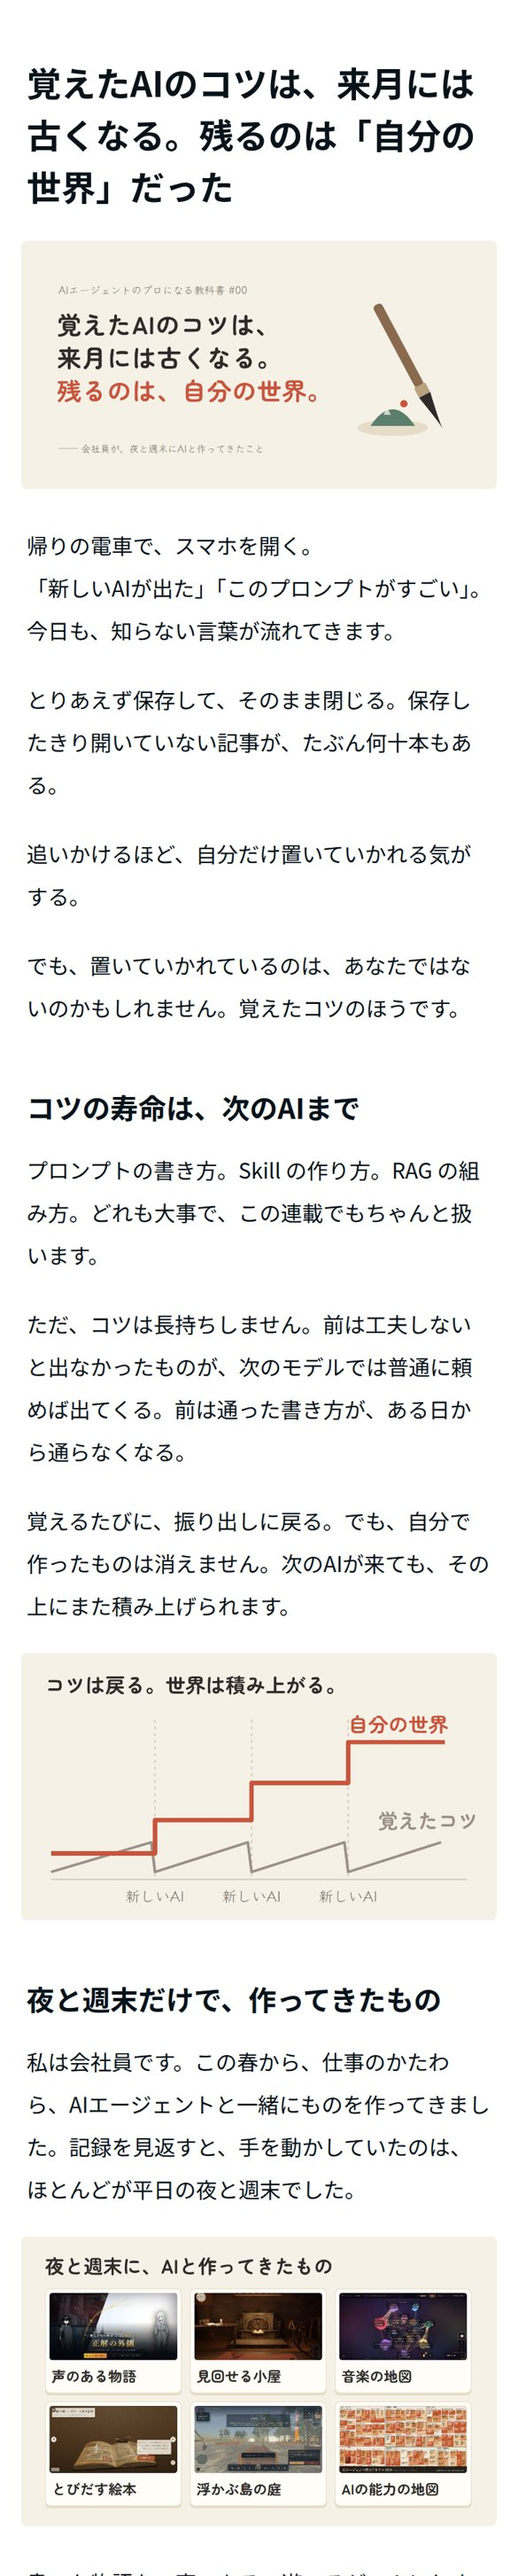
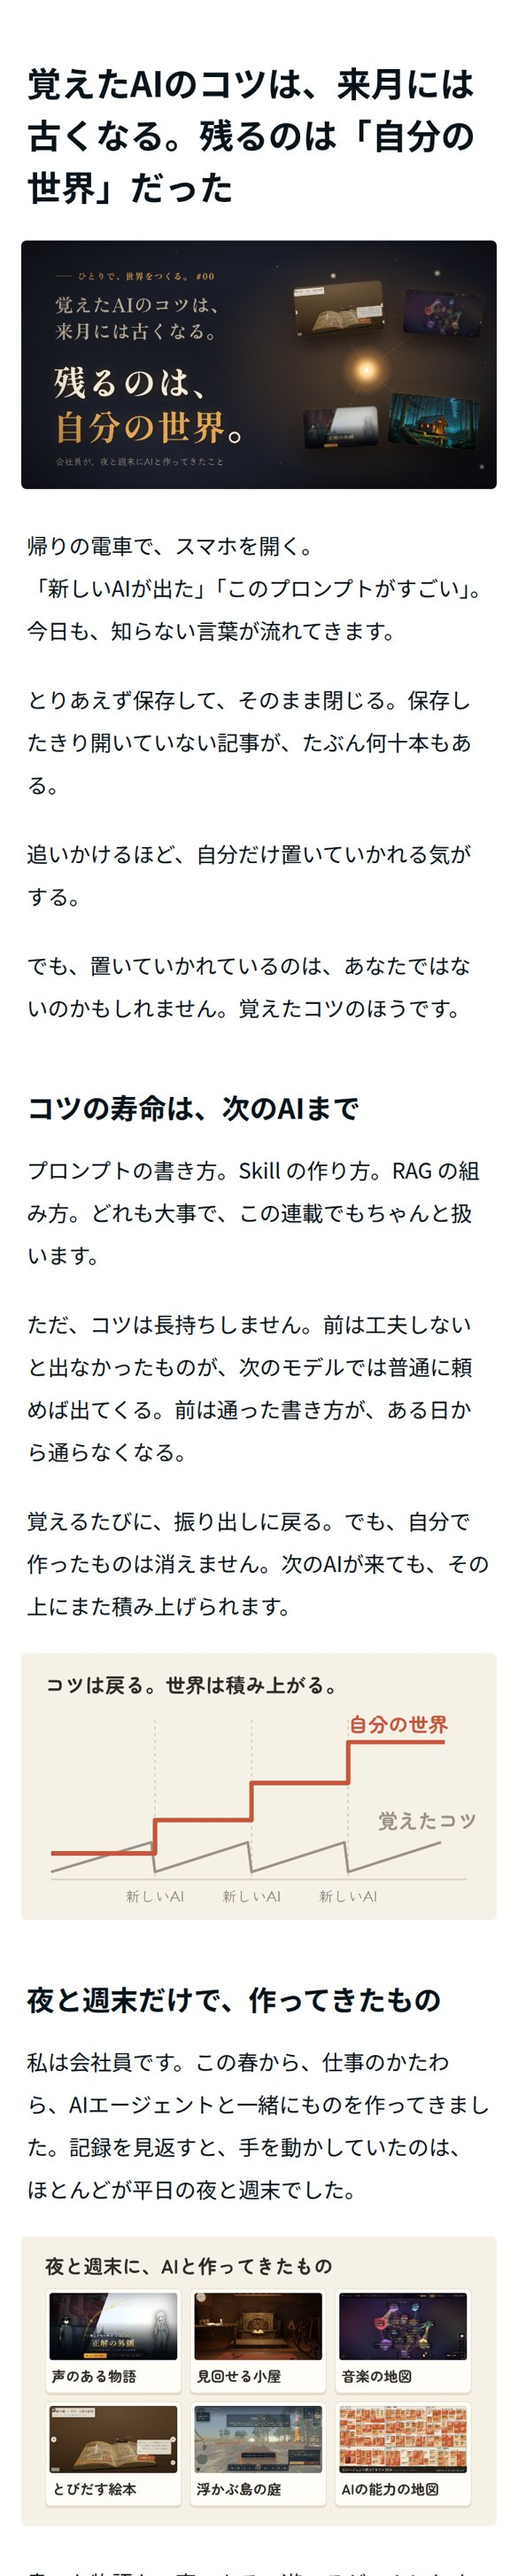
note連載：見出し画像を夜の灯りと作品の星座で作り直し、連載の表紙を追加
- #00 の見出し画像と連載の表紙を、暗い夜の色・明朝・作品の実画像で作り直した
- 大タイトルを決定とし、#00 タイトルとの関係（問いと答え）を 07 に記録
- 小さく表示したときの比較と、スマホでの見え方を更新

Claude-Session: https://claude.ai/code/session_01WdYy9Xjjirin4eQUmpa4hd

Changed region(s): [[0.0308, 0.0929, 0.9846, 0.2167]]

diff --git a/docs/note_ai_series/figures/src/cover_series.html b/docs/note_ai_series/figures/src/cover_series.html
@@ -1,10 +1,10 @@
 <html><head><meta charset="utf-8"><link rel="stylesheet" href="_night.css"><style>
-.label{left:92px;top:78px;font-size:23px;letter-spacing:.12em}
-.q{position:absolute;left:90px;top:136px;font-size:50px;line-height:1.42;color:var(--dim);letter-spacing:.02em;white-space:nowrap}
-.a{position:absolute;left:84px;top:318px;font-family:'Shippori B1';font-weight:800;font-size:92px;line-height:1.3;letter-spacing:.02em;
-   text-shadow:0 0 30px rgba(227,168,87,.28),0 4px 18px rgba(0,0,0,.6);white-space:nowrap}
-.a b{color:var(--amber);font-weight:800}
-.foot{position:absolute;left:92px;bottom:58px;font-family:'Klee One';font-weight:600;font-size:24px;color:var(--dim);opacity:.9;white-space:nowrap}
+.label{left:92px;top:120px}
+.t{position:absolute;left:84px;top:170px;font-family:'Shippori B1';font-weight:800;font-size:100px;line-height:1.28;letter-spacing:.02em;
+   text-shadow:0 0 30px rgba(227,168,87,.25),0 4px 18px rgba(0,0,0,.6);white-space:nowrap}
+.t b{color:var(--amber);font-weight:800}
+.bar{position:absolute;left:92px;top:452px;width:72px;height:3px;background:var(--amber)}
+.sub{position:absolute;left:90px;top:482px;font-size:34px;line-height:1.55;color:var(--dim);letter-spacing:.04em;white-space:nowrap}
 </style></head><body><div class="fig">
 <svg class="sky" width="1280" height="670" viewBox="0 0 1280 670">
  <defs>
@@ -40,8 +40,8 @@
 <div class="card" style="left:990px;top:420px;width:240px;height:135px;transform:rotate(5deg)"><img src="../../../../assets/cabin-hero.png"></div>
 <div class="card far" style="left:760px;top:452px;width:200px;height:106px;transform:rotate(-3deg)"><img src="../../../../assets/seikai/og-share.jpg"></div>
 
-<div class="label"><i></i>ひとりで、世界をつくる。 #00</div>
-<div class="q">覚えたAIのコツは、<br>来月には古くなる。</div>
-<div class="a">残るのは、<br><b>自分の世界</b>。</div>
-<div class="foot">会社員が、夜と週末にAIと作ってきたこと</div>
+<div class="label"><i></i>連 載</div>
+<div class="t">ひとりで、<br><b>世界</b>をつくる。</div>
+<div class="bar"></div>
+<div class="sub">AIエージェントと、<br>自分だけの世界を築く教科書</div>
 <div class="vignette"></div></div></body></html>

diff --git a/docs/note_ai_series/figures/src/_night.css b/docs/note_ai_series/figures/src/_night.css
@@ -1,0 +1,23 @@
+/* 夜のサムネ用。フォントは Google Fonts（OFL）。src/fonts/ に置いて使う（git には入れない） */
+@font-face{font-family:'Shippori B1';font-weight:800;src:url('fonts/ShipporiMinchoB1.ttf')}
+@font-face{font-family:'Zen Old';font-weight:700;src:url('fonts/ZenOldMincho.ttf')}
+@font-face{font-family:'Klee One';font-weight:600;src:url('fonts/KleeOne-600.ttf')}
+:root{--night:#12141c;--cream:#f4ead8;--dim:#b8ab98;--amber:#e3a857;--ember:#d8743f;--line:rgba(227,168,87,.45)}
+*{box-sizing:border-box;margin:0;padding:0}
+html,body{background:var(--night)}
+.fig{width:1280px;height:670px;position:relative;overflow:hidden;color:var(--cream);
+  font-family:'Zen Old','Shippori B1',serif;
+  background:
+    radial-gradient(ellipse 620px 480px at 930px 330px, rgba(227,150,70,.30), rgba(227,150,70,0) 70%),
+    radial-gradient(ellipse 900px 600px at 300px 700px, rgba(60,70,110,.35), rgba(0,0,0,0) 70%),
+    linear-gradient(180deg,#171a26 0%,#12141c 60%,#0e0f15 100%);}
+.grain{position:absolute;inset:0;opacity:.10;mix-blend-mode:overlay;pointer-events:none}
+.vignette{position:absolute;inset:0;background:radial-gradient(ellipse at 50% 50%,rgba(0,0,0,0) 55%,rgba(0,0,0,.55) 100%);pointer-events:none}
+.label{position:absolute;display:flex;align-items:center;gap:16px;color:var(--amber);font-size:24px;letter-spacing:.18em}
+.label i{display:block;width:44px;height:1px;background:var(--amber);opacity:.8}
+.card{position:absolute;border-radius:10px;overflow:hidden;
+  box-shadow:0 24px 50px rgba(0,0,0,.65),0 0 0 1px rgba(255,225,180,.22),0 0 40px rgba(227,150,70,.18)}
+.card img{display:block;width:100%;height:100%;object-fit:cover}
+.card::after{content:'';position:absolute;inset:0;background:linear-gradient(180deg,rgba(255,240,210,.10),rgba(0,0,0,.18))}
+.far{filter:blur(.8px) brightness(.85) saturate(.95)}
+.sky{position:absolute;inset:0}

diff --git a/docs/note_ai_series/07_series_title.md b/docs/note_ai_series/07_series_title.md
@@ -1,5 +1,7 @@
 # 連載全体の大タイトル
 
+> **決定：ひとりで、世界をつくる。｜AIエージェントと、自分だけの世界を築く教科書**（2026-09-27）
+
 > 各回のタイトル（中タイトル）とは役割が違う。
 > - 大タイトル：連載をひと言で表し、AIに詳しくない人も「自分の話だ」と思える入口にする
 > - 中タイトル：その回の悩みと答えを具体的に言う（例：#00「覚えたAIのコツは、来月には古くなる。残るのは『自分の世界』だった」）
@@ -16,7 +18,7 @@
 
 | # | 大タイトル | 副題 | 広さ | 古くならない | 芯 | 作者らしさ | 気になる点 |
 |---|---|---|---|---|---|---|---|
-| **1（推す）** | **ひとりで、世界をつくる。** | AIエージェントと、自分だけの世界を築く教科書 | ◎ | ◎ | ◎ | ◎ | 「世界」が大きく聞こえる。副題と各回の身近な場面で地に足をつける |
+| **1（決定）** | **ひとりで、世界をつくる。** | AIエージェントと、自分だけの世界を築く教科書 | ◎ | ◎ | ◎ | ◎ | 「世界」が大きく聞こえる。副題と各回の身近な場面で地に足をつける |
 | 2 | コツより、世界を。 | AIが毎月変わる時代の、ものづくりと仕事の教科書 | ○ | ◎ | ◎ | ○ | 言い切りは強いが、初めての人には意味が一瞬で伝わりにくい |
 | 3 | AIと、自分の世界をつくる | 会社員の夜と週末から始まった、AIエージェントの教科書 | ◎ | ◎ | ○ | ○ | 分かりやすいが、印象に残りにくい |
 | 4 | ひとりでできることが、変わった。 | AIエージェント時代の教科書 | ◎ | ○ | △ | ○ | 変化は伝わるが、「だから何をするか」が弱い |
@@ -34,5 +36,19 @@
 - 各回の見出し画像の小さい文字：「連載 ひとりで、世界をつくる。 #00」
 - 各回のタイトルはこれまでどおり、その回の悩みと答え（中タイトル）
 
-## 表紙の比較
-figures/series_cover1.png〜3.png、figures/series_cover_compare.jpg
+## 大タイトルと #00 のつながり
+- 二つは「問い」と「答え」の関係にある
+  - #00「覚えたAIのコツは、来月には古くなる。残るのは『自分の世界』だった」＝入口の問い。読者の不安（追いかけても追いつかない）を言い当て、「では何が残るのか」に答える
+  - 大タイトル「ひとりで、世界をつくる。」＝連載全体でやること。#00 で見つけた「自分の世界」を、ここから先の回で実際につくっていく
+- つなぐ言葉は「世界」。#00 の最後で「残るのは自分の世界」と言い切り、大タイトルで「それを、ひとりでつくる」と受ける
+- 読者の順番：#00 で「コツを追うのをやめていい」と分かる → 大タイトルを見て「じゃあ、自分の世界をつくろう」と連載に入る
+- 見出し画像でも同じ関係を見せる：上に小さく連載名、下に大きくその回の答え
+
+## 見出し画像（決定）
+- figures/series_cover.png（マガジンの表紙）／figures/fig0_header.png（#00）。元は figures/src/cover_series.html・fig0_header.html・_night.css
+- 夜の色：noteのタイムラインは白い画像が多いので、暗い画像は目に留まる。「夜と週末に作ってきた」ともつながる
+- 真ん中に、ひとつの灯り（＝ひとり）。そこから線が伸びて、作者が実際に作った作品が星座のように浮かぶ（＝世界）
+- 書体は明朝（Shippori Mincho B1・Zen Old Mincho）。作者のサイトの作品ページと同じ空気にそろえる
+- 各回は、上の小さい文字「ひとりで、世界をつくる。 #番号」と、大きい文字（その回の答え）だけを差しかえる
+- 小さく表示したときの見え方：preview/thumb_compare.jpg（左が前の案）
+- 前の表紙案（紙の色の3案）：figures/series_cover1.png〜3.png、figures/series_cover_compare.jpg

diff --git a/docs/note_ai_series/README.md b/docs/note_ai_series/README.md
@@ -11,7 +11,7 @@
 | [figures/](figures/) | 記事の図（PNG）と作り方（src/ の HTML。フォントは Google Fonts の Klee One・Zen Maru Gothic を src/fonts/ に置いて描画。git には入れない） | — |
 | [research/fix_analysis.md](research/fix_analysis.md) | 直したコミット287件の分類の要約（全件は fix_classified.tsv） | 調査 |
 | [ep00_pro_is_not_prompt.md](ep00_pro_is_not_prompt.md) | **#00（無料）覚えたAIのコツは、来月には古くなる。残るのは「自分の世界」だった**。人気noteの書き方に合わせた第3稿（約1,800字・見出し5・図6・太字1）。タイトルの候補と判断は 06_title_options.md。スマホでの見え方は preview/ep00_phone_1〜3.jpg | 第3稿 |
-| [07_series_title.md](07_series_title.md) | 連載全体の大タイトル：求める条件、候補6つの比較、推す理由、表紙3案（figures/series_cover*.png） | 案 |
+| [07_series_title.md](07_series_title.md) | 連載全体の大タイトル（決定）、#00 とのつながり、見出し画像（figures/series_cover.png・fig0_header.png） | 決定 |
 | [04_concept_world.md](04_concept_world.md) | **最新の軸**：プロはテクニックではなく、自分だけの世界を持つ人。築く・壊す・乗りこなすの三本柱、noteの型、全11回と道具箱、#00の書き出し | 完成 |
 | [05_story_and_material.md](05_story_and_material.md) | **最新の軸の掘り下げ**：主張の筋道、写真と絵画のたとえ、読者の変化の道のり、各回の題材（研究ノートの原文つき）、反論と答え、#00の運び | 完成 |
 | [03_concept_success.md](03_concept_success.md) | 古い案：失敗ではなく「ひとりでできるようになったこと」を主役にする。芯の一言、noteの型（興味・損失・利益・独自性）、成果が主役の全11回、#00の書き出し見本 | 完成 |

diff --git a/docs/note_ai_series/ep00_pro_is_not_prompt.md b/docs/note_ai_series/ep00_pro_is_not_prompt.md
@@ -8,6 +8,8 @@
   - タイトルの候補と判断は 06_title_options.md
 - 書き方の根拠：WRITING_RULES.md（冒頭に細かい数字を出さない）、research/note_style.md
   - 具体的な一場面から入る／見出し5／段落2〜3文／太字1／引用1／まとめの節なし／最後に冒頭の場面へ戻る
+- 見出し画像：figures/fig0_header.png（夜の色、灯りと作品の星座。考え方は 07_series_title.md）。マガジンの表紙は figures/series_cover.png
+- タイトルと大タイトルの関係：#00 は「何が残るのか」という問いへの答え（自分の世界）、連載はそれを「ひとりでつくる」
 - 図：figures/ の PNG。fig6 は実際の作品の画像（サイトの共有画像）
 - 引用「これは表現の限界ではなく、手配の限界でした」は method/ichinichi-novel-pipeline.html の原文
 - 「平日の夜と週末」は作業の記録の時刻で確認済み／「進捗管理」は作者の言葉
